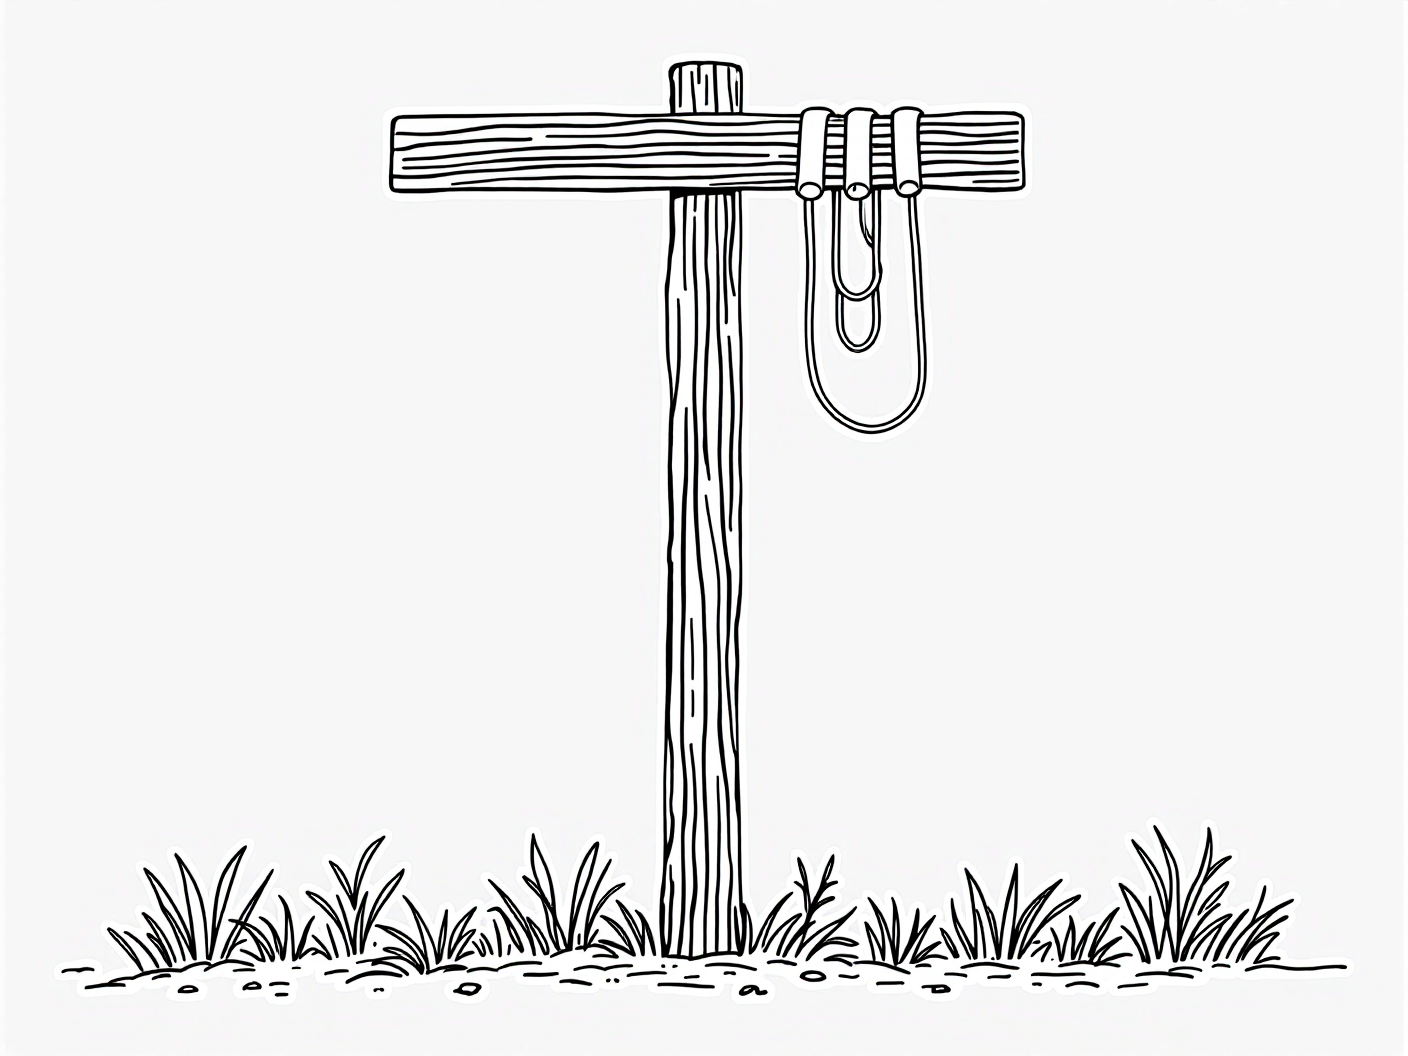
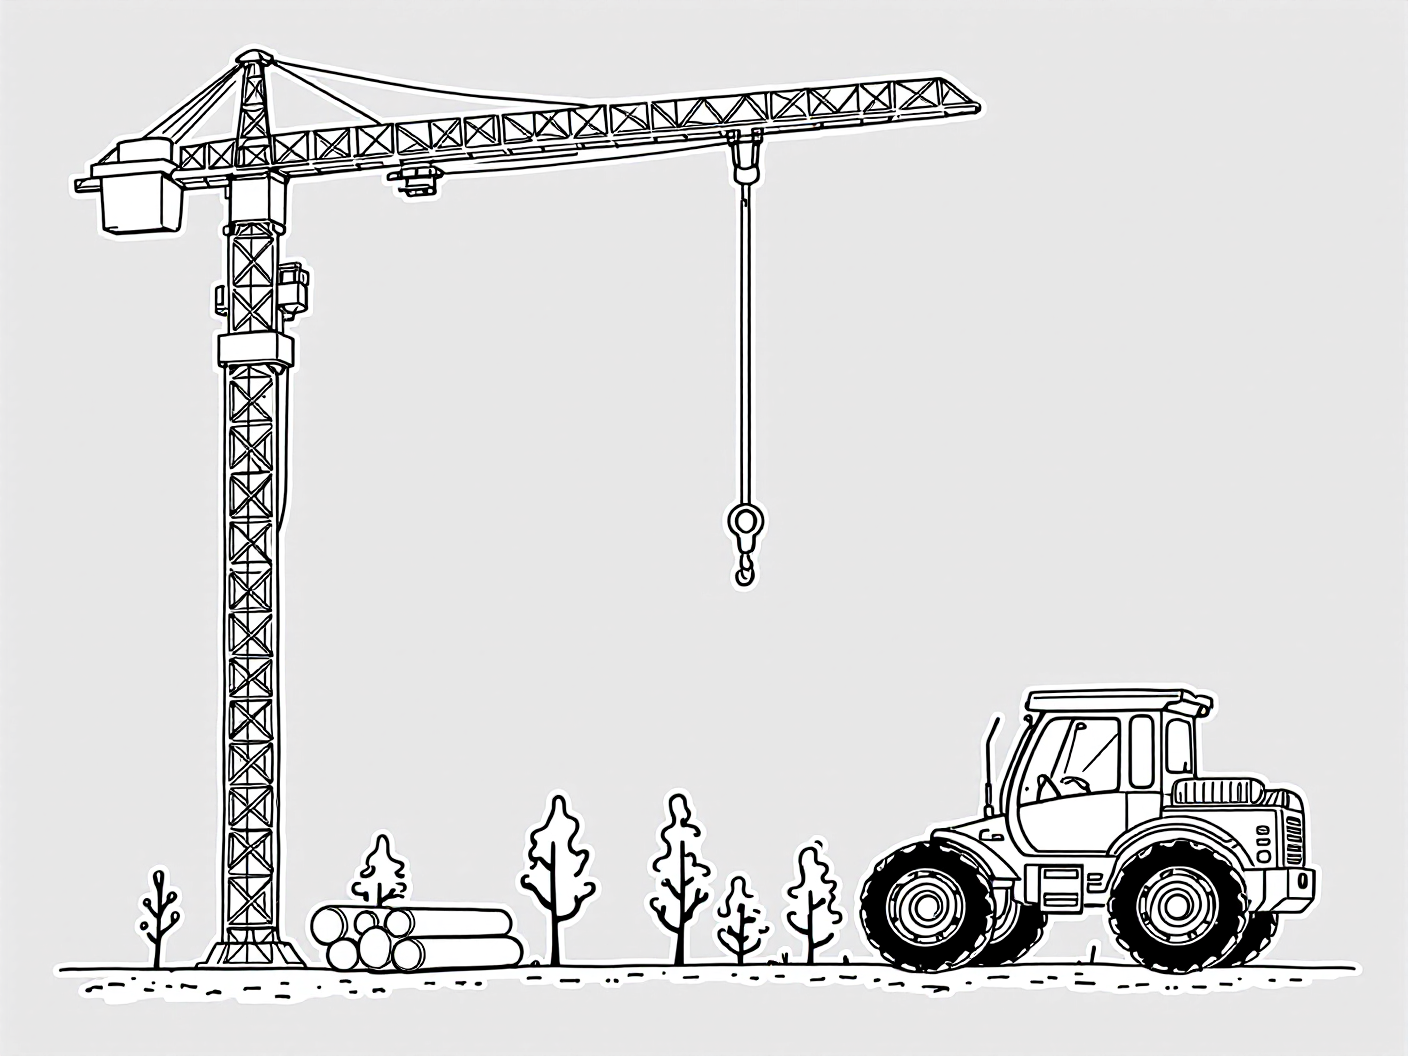
Settle the redos: restore a09 to the attempt that drew the right object
Dropping "crane" and "tower" removed the lattice but returned a wooden
signpost with no pipes. Three tries say this is a model prior, not a wording
problem. a09 and a20's lattice towers and a24's broken tread are recorded as
still short of the checklist, with the code-drawn crane and wheel available
as a free fix.

Claude-Session: https://claude.ai/code/session_01W4RSLQMevwHV1dZEG8RDu2

Changed region(s): [[0.0312, 0.0312, 0.9688, 0.9375]]

diff --git a/book/README.md b/book/README.md
@@ -19,7 +19,7 @@ book/
     generate-images.mjs       Replicate / FLUX 1.1 Pro image generation
   book1/
     activities.json           the 35 pages: titles, levels, cut specs, art refs
-    images.json               the 30 unique illustrations and their subjects
+    images.json               the 27 illustrations and their subjects
     style.txt                 the style block prepended to every prompt
     CHECKLIST.md              what makes an image a reject
     art/                      generated PNGs, committed
@@ -37,11 +37,15 @@ Locally (or anywhere with network access):
 
 ```bash
 DRY_RUN=1 node book/scripts/generate-images.mjs          # prompts + price, free
-ONLY=a06,a23,a29 node book/scripts/generate-images.mjs   # the test batch, $0.12
+ONLY=a06,a23 node book/scripts/generate-images.mjs       # prove one before nine
 node book/scripts/generate-images.mjs                    # everything missing
 ```
 
-Whole book: 30 images, $1.20 at $0.04 each on FLUX 1.1 Pro.
+Whole book: 27 images, $1.08 at $0.04 each on FLUX 1.1 Pro. Level 5's
+cut-and-glue pieces and a few level 4 objects are drawn by
+`scripts/pieces.py` instead, because Flux returns a whole vehicle whenever a
+vehicle part is named, and independently generated pieces would not fit
+together when glued.
 
 ## Checking a PDF before upload
 
@@ -87,6 +91,24 @@ python3 book/scripts/clean-art.py a06      # just one
 The split matters: cleanup fixes weight and speckle, and nothing else. If Flux
 returns a detailed machine instead of a toy, that is a prompt problem.
 
+## What the subject line has to do
+
+Six of the first run's images failed the checklist, and every one failed for
+a reason the wording could name rather than bad luck:
+
+- Naming a thing invites Flux to write it. "Road roller" came back with
+  **Road** painted across the machine; "steamroller" did not.
+- A lattice tower is a mesh of hairlines a three-year-old cannot colour
+  inside, so the tower is asked for as solid.
+- "Sitting on a flat patch of ground" becomes a dark scribble. "On one plain
+  flat ground line" does not.
+- A part named in passing gets drawn in passing: the bulldozer arrived as a
+  loader with a bucket until the blade was named first.
+
+So a redo changes the subject line, and the seed stays at 42 with the rest of
+the book. Bump `SEED` only when the wording is already right and Flux simply
+drew it badly.
+
 ## What Flux ignores
 
 Flux 1.1 Pro is distilled. It rejects a `negative_prompt` outright, and it
@@ -103,7 +125,7 @@ carry the result.
 
 ## Style consistency
 
-All 30 images share seed 42 and a byte-identical style block, which is what
+All 27 images share seed 42 and a byte-identical style block, which is what
 keeps the drawings looking like one book. The trade-off is that re-running an
 image reproduces it exactly, so a redo needs `SEED=43` or a sharper subject
 line. See `book1/CHECKLIST.md`.
